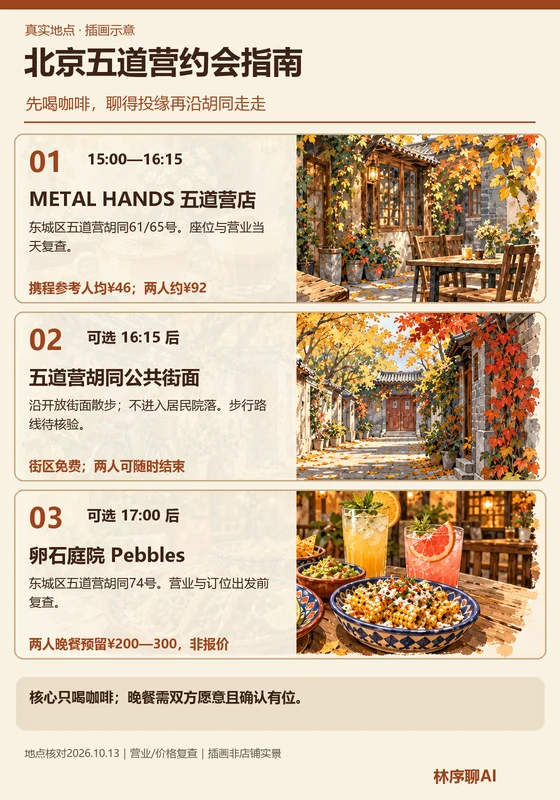
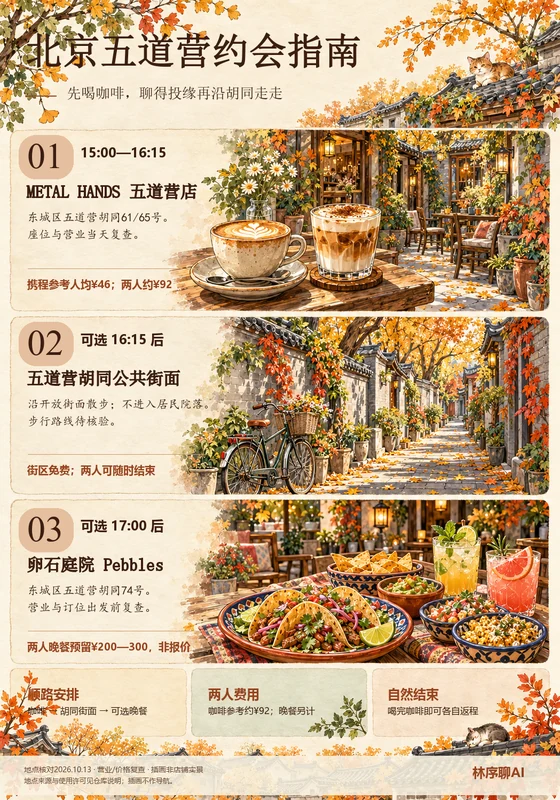
Refresh homepage preview for redesigned date posters

diff --git a/index.html b/index.html
@@ -3,7 +3,7 @@
 <header><a class="brand" href="#"><span class="brand-mark">LX<span>↗</span></span><span>林序聊AI<small>TECH · AI · BUSINESS</small></span></a><nav aria-label="主导航"><a href="#skills">开源 Skills</a><a href="#practice">实战与思考</a><a href="#start">开始使用</a></nav><a class="header-link" href="https://github.com/linxumoney" target="_blank" rel="noopener noreferrer">GitHub ↗</a></header>
 <main><section class="hero"><div class="hero-main"><div class="hero-kicker"><span></span> LIN XU / OPEN SOURCE LAB</div><h1>用技术理解商业，<br>用 <em>AI</em> 放大杠杆<span class="period">。</span></h1><p>把实践中沉淀的工具和方法开放出来。<br>找到你的场景，带走一个能用的 AI Skill。</p><div class="hero-actions"><a class="primary" href="#skills">探索开源技能 <span>↓</span></a><a class="text-link" href="https://www.youtube.com/@LinXuMoney" target="_blank" rel="noopener noreferrer">看我的实战分享 ↗</a></div><div class="hero-stats"><span><strong>19</strong>公开技能项目</span><span><strong>32</strong>SKILL.md 文件</span><span><strong>05</strong>应用场景</span></div></div><aside class="hero-aside"><div class="orbit orbit-one"></div><div class="orbit orbit-two"></div><div class="profile-card"><div class="profile-top"><span>BUILD IN PUBLIC</span><span>↗</span></div><img src="assets/avatar.jpg" alt="林序聊AI频道头像" width="160" height="160"><h2>林序 <small>Lin Xu</small></h2><p>前大厂技术专家<br>8年技术与商业实战 · All in AI</p><div class="profile-tags"><span>技术</span><b>×</b><span>商业</span><b>×</b><span>实战</span></div></div><div class="aside-note"><span>01 / 从想法到工具</span><p>让 AI 进入真实工作。</p><div class="growth-bars" aria-hidden="true"><i></i><i></i><i></i><i></i><i></i><i></i></div></div></aside></section>
 <div class="manifesto"><span>分享方法，也交付工具。</span><span>公开源码 / 场景驱动 / 持续打磨 <b>↗</b></span></div>
-<section class="featured-plan" aria-labelledby="featured-plan-title"><div class="featured-plan-copy"><span class="eyebrow">NEW PROJECT / 真实地点示例</span><h2 id="featured-plan-title">一场约会，从一条真实街道开始。</h2><p>五道营胡同、武康路、新天地：三张水彩指南海报，店铺与地址附公开来源。营业、价格与预约请在出发前复核。</p><a class="primary" href="https://github.com/linxumoney/plan-date#示例图" target="_blank" rel="noopener noreferrer">查看三张示例图 <span>↗</span></a><small>插画为场景示意，不作导航地图使用。</small></div><a class="featured-plan-image" href="https://github.com/linxumoney/plan-date#示例图" target="_blank" rel="noopener noreferrer" aria-label="查看五道营胡同约会海报与更多示例"><img src="assets/plan-date-preview.webp" alt="五道营胡同真实地点约会指南海报预览" width="560" height="800" loading="lazy"></a></section>
+<section class="featured-plan" aria-labelledby="featured-plan-title"><div class="featured-plan-copy"><span class="eyebrow">NEW PROJECT / 真实地点示例</span><h2 id="featured-plan-title">一场约会，从一条真实街道开始。</h2><p>五道营胡同、武康路、新天地：三张水彩指南海报，店铺与地址附公开来源。营业、价格与预约请在出发前复核。</p><a class="primary" href="https://github.com/linxumoney/plan-date#示例图" target="_blank" rel="noopener noreferrer">查看三张示例图 <span>↗</span></a><small>插画为场景示意，不作导航地图使用。</small></div><a class="featured-plan-image" href="https://github.com/linxumoney/plan-date#示例图" target="_blank" rel="noopener noreferrer" aria-label="查看五道营胡同约会海报与更多示例"><img src="assets/plan-date-preview.webp?v=20261013b" alt="五道营胡同真实地点约会指南海报预览" width="560" height="800" loading="lazy"></a></section>
 <section id="skills" class="catalog section"><div class="section-heading"><div><span class="eyebrow">THE TOOLKIT / 开源技能库</span><h2>选一个场景，开始动手。</h2></div><span class="section-count">19 个项目 <span>↙</span></span></div><div class="catalog-controls"><div class="filters" role="group" aria-label="按场景筛选"><button class="filter active" data-filter="全部" aria-pressed="true">全部</button><button class="filter" data-filter="内容创作" aria-pressed="false">内容创作</button><button class="filter" data-filter="营销增长" aria-pressed="false">营销增长</button><button class="filter" data-filter="产品开发" aria-pressed="false">产品开发</button><button class="filter" data-filter="研究决策" aria-pressed="false">研究决策</button><button class="filter" data-filter="个人成长" aria-pressed="false">个人成长</button></div><label class="search"><span aria-hidden="true">⌕</span><input id="search" type="search" placeholder="搜索技能、场景…" aria-label="搜索技能"></label></div><div id="result-count" class="result-count" aria-live="polite">全部 19 个技能项目</div><div class="card-grid"><article class="skill-card" data-category="内容创作" data-search="热搜雷达 hotspot-radar 抓取微博与百度热搜，结合关键词评分，找到值得写的选题。"><div class="card-top"><span class="skill-icon">雷达</span><span class="card-number">01</span></div><span class="eyebrow">内容创作</span><h3>热搜雷达</h3><p>抓取微博与百度热搜，结合关键词评分，找到值得写的选题。</p><div class="repo-name">hotspot-radar</div><div class="card-foot"><span>PolyForm Noncommercial · 1 Skill</span><button data-detail="hotspot-radar" aria-label="查看热搜雷达详情">了解 / 使用 <span>↗</span></button></div></article><article class="skill-card" data-category="内容创作" data-search="商业叙事写作 biz-fiction 把真实商业人物与事件，组织成有场景、有细节的叙事长文。"><div class="card-top"><span class="skill-icon">故事</span><span class="card-number">02</span></div><span class="eyebrow">内容创作</span><h3>商业叙事写作</h3><p>把真实商业人物与事件，组织成有场景、有细节的叙事长文。</p><div class="repo-name">biz-fiction</div><div class="card-foot"><span>CC BY-NC 4.0 · 1 Skill</span><button data-detail="biz-fiction" aria-label="查看商业叙事写作详情">了解 / 使用 <span>↗</span></button></div></article><article class="skill-card" data-category="内容创作" data-search="保留你的声音 voice-preserving-editor 减少模板感和空话，保留原文事实、立场与作者的表达节奏。"><div class="card-top"><span class="skill-icon">润色</span><span class="card-number">03</span></div><span class="eyebrow">内容创作</span><h3>保留你的声音</h3><p>减少模板感和空话，保留原文事实、立场与作者的表达节奏。</p><div class="repo-name">voice-preserving-editor</div><div class="card-foot"><span>PolyForm Noncommercial · 1 Skill</span><button data-detail="voice-preserving-editor" aria-label="查看保留你的声音详情">了解 / 使用 <span>↗</span></button></div></article><article class="skill-card" data-category="内容创作" data-search="演示叙事架构师 slide-story-architect 围绕观众和决策，整理故事线、逐页标题、证据与讲者过渡。"><div class="card-top"><span class="skill-icon">演示</span><span class="card-number">04</span></div><span class="eyebrow">内容创作</span><h3>演示叙事架构师</h3><p>围绕观众和决策，整理故事线、逐页标题、证据与讲者过渡。</p><div class="repo-name">slide-story-architect</div><div class="card-foot"><span>PolyForm Noncommercial · 1 Skill</span><button data-detail="slide-story-architect" aria-label="查看演示叙事架构师详情">了解 / 使用 <span>↗</span></button></div></article><article class="skill-card" data-category="营销增长" data-search="中国广告投放技能库 cn-ads-skills 覆盖用户洞察、广告文案、创意、转化路径和投放诊断的技能组合。"><div class="card-top"><span class="skill-icon">投放</span><span class="card-number">05</span></div><span class="eyebrow">营销增长</span><h3>中国广告投放技能库</h3><p>覆盖用户洞察、广告文案、创意、转化路径和投放诊断的技能组合。</p><div class="repo-name">cn-ads-skills</div><div class="card-foot"><span>PolyForm Noncommercial · 14 Skills</span><button data-detail="cn-ads-skills" aria-label="查看中国广告投放技能库详情">了解 / 使用 <span>↗</span></button></div></article><article class="skill-card" data-category="营销增长" data-search="Google Ads 副驾驶 google-ads-pilot 辅助搜索词评估、否定词筛选、预算优化和账户诊断。"><div class="card-top"><span class="skill-icon">广告</span><span class="card-number">06</span></div><span class="eyebrow">营销增长</span><h3>Google Ads 副驾驶</h3><p>辅助搜索词评估、否定词筛选、预算优化和账户诊断。</p><div class="repo-name">google-ads-pilot</div><div class="card-foot"><span>PolyForm Noncommercial · 1 Skill</span><button data-detail="google-ads-pilot" aria-label="查看Google Ads 副驾驶详情">了解 / 使用 <span>↗</span></button></div></article><article class="skill-card" data-category="营销增长" data-search="AI 搜索优化 ai-seo 检查内容可引用性、爬虫访问和结构化数据，梳理 GEO 改进方向。"><div class="card-top"><span class="skill-icon">搜索</span><span class="card-number">07</span></div><span class="eyebrow">营销增长</span><h3>AI 搜索优化</h3><p>检查内容可引用性、爬虫访问和结构化数据，梳理 GEO 改进方向。</p><div class="repo-name">ai-seo</div><div class="card-foot"><span>PolyForm Noncommercial · 1 Skill</span><button data-detail="ai-seo" aria-label="查看AI 搜索优化详情">了解 / 使用 <span>↗</span></button></div></article><article class="skill-card" data-category="营销增长" data-search="增长实验规划师 growth-experiment-planner 把增长想法拆成假设、指标、护栏、停止规则和实验复盘。"><div class="card-top"><span class="skill-icon">实验</span><span class="card-number">08</span></div><span class="eyebrow">营销增长</span><h3>增长实验规划师</h3><p>把增长想法拆成假设、指标、护栏、停止规则和实验复盘。</p><div class="repo-name">growth-experiment-planner</div><div class="card-foot"><span>PolyForm Noncommercial · 1 Skill</span><button data-detail="growth-experiment-planner" aria-label="查看增长实验规划师详情">了解 / 使用 <span>↗</span></button></div></article><article class="skill-card" data-category="产品开发" data-search="产品决策简报 product-brief-builder 梳理需求、MVP 范围与验收条件，让团队知道这次要决定什么。"><div class="card-top"><span class="skill-icon">产品</span><span class="card-number">09</span></div><span class="eyebrow">产品开发</span><h3>产品决策简报</h3><p>梳理需求、MVP 范围与验收条件，让团队知道这次要决定什么。</p><div class="repo-name">product-brief-builder</div><div class="card-foot"><span>PolyForm Noncommercial · 1 Skill</span><button data-detail="product-brief-builder" aria-label="查看产品决策简报详情">了解 / 使用 <span>↗</span></button></div></article><article class="skill-card" data-category="产品开发" data-search="UI / UX 评审教练 ui-critique-coach 从任务、信息层级、交互状态、响应式与可访问性检查界面。"><div class="card-top"><span class="skill-icon">界面</span><span class="card-number">10</span></div><span class="eyebrow">产品开发</span><h3>UI / UX 评审教练</h3><p>从任务、信息层级、交互状态、响应式与可访问性检查界面。</p><div class="repo-name">ui-critique-coach</div><div class="card-foot"><span>PolyForm Noncommercial · 1 Skill</span><button data-detail="ui-critique-coach" aria-label="查看UI / UX 评审教练详情">了解 / 使用 <span>↗</span></button></div></article><article class="skill-card" data-category="产品开发" data-search="云安全事件响应 cloud-incident-coach 保全证据、梳理时间线与影响范围，制定可逆遏制和恢复方案。"><div class="card-top"><span class="skill-icon">安全</span><span class="card-number">11</span></div><span class="eyebrow">产品开发</span><h3>云安全事件响应</h3><p>保全证据、梳理时间线与影响范围，制定可逆遏制和恢复方案。</p><div class="repo-name">cloud-incident-coach</div><div class="card-foot"><span>PolyForm Noncommercial · 1 Skill</span><button data-detail="cloud-incident-coach" aria-label="查看云安全事件响应详情">了解 / 使用 <span>↗</span></button></div></article><article class="skill-card" data-category="研究决策" data-search="近期趋势研究员 fresh-signal-researcher 校验最近 30 天的事件日期、独立来源、社区情绪与市场信号。"><div class="card-top"><span class="skill-icon">趋势</span><span class="card-number">12</span></div><span class="eyebrow">研究决策</span><h3>近期趋势研究员</h3><p>校验最近 30 天的事件日期、独立来源、社区情绪与市场信号。</p><div class="repo-name">fresh-signal-researcher</div><div class="card-foot"><span>PolyForm Noncommercial · 1 Skill</span><button data-detail="fresh-signal-researcher" aria-label="查看近期趋势研究员详情">了解 / 使用 <span>↗</span></button></div></article><article class="skill-card" data-category="研究决策" data-search="财报信号审阅 earnings-signal-reviewer 拆解盈利质量、现金流、业绩预期差和管理层指引。"><div class="card-top"><span class="skill-icon">财报</span><span class="card-number">13</span></div><span class="eyebrow">研究决策</span><h3>财报信号审阅</h3><p>拆解盈利质量、现金流、业绩预期差和管理层指引。</p><div class="repo-name">earnings-signal-reviewer</div><div class="card-foot"><span>PolyForm Noncommercial · 1 Skill</span><button data-detail="earnings-signal-reviewer" aria-label="查看财报信号审阅详情">了解 / 使用 <span>↗</span></button></div></article><article class="skill-card" data-category="研究决策" data-search="论文引用核验 research-citation-auditor 核验文献真实性，检查论断与证据之间是否真正对应。"><div class="card-top"><span class="skill-icon">引用</span><span class="card-number">14</span></div><span class="eyebrow">研究决策</span><h3>论文引用核验</h3><p>核验文献真实性，检查论断与证据之间是否真正对应。</p><div class="repo-name">research-citation-auditor</div><div class="card-foot"><span>PolyForm Noncommercial · 1 Skill</span><button data-detail="research-citation-auditor" aria-label="查看论文引用核验详情">了解 / 使用 <span>↗</span></button></div></article><article class="skill-card" data-category="研究决策" data-search="智者议会 wisdom-council 模拟七位思想家的思维视角，讨论商业选择与复杂问题。"><div class="card-top"><span class="skill-icon">议会</span><span class="card-number">15</span></div><span class="eyebrow">研究决策</span><h3>智者议会</h3><p>模拟七位思想家的思维视角，讨论商业选择与复杂问题。</p><div class="repo-name">wisdom-council</div><div class="card-foot"><span>CC BY-NC 4.0 · 1 Skill</span><button data-detail="wisdom-council" aria-label="查看智者议会详情">了解 / 使用 <span>↗</span></button></div></article><article class="skill-card" data-category="研究决策" data-search="AI 航海家大会知识库 ai-navigator-2026 检索大会嘉宾分享、逐字稿和问答，引用原始观点与方法。"><div class="card-top"><span class="skill-icon">知识</span><span class="card-number">16</span></div><span class="eyebrow">研究决策</span><h3>AI 航海家大会知识库</h3><p>检索大会嘉宾分享、逐字稿和问答，引用原始观点与方法。</p><div class="repo-name">ai-navigator-2026</div><div class="card-foot"><span>CC BY-NC 4.0 · 1 Skill</span><button data-detail="ai-navigator-2026" aria-label="查看AI 航海家大会知识库详情">了解 / 使用 <span>↗</span></button></div></article><article class="skill-card" data-category="个人成长" data-search="岗位匹配教练 career-fit-coach 用 JD 和真实经历建立证据矩阵，判断岗位匹配与简历修改方向。"><div class="card-top"><span class="skill-icon">职业</span><span class="card-number">17</span></div><span class="eyebrow">个人成长</span><h3>岗位匹配教练</h3><p>用 JD 和真实经历建立证据矩阵，判断岗位匹配与简历修改方向。</p><div class="repo-name">career-fit-coach</div><div class="card-foot"><span>PolyForm Noncommercial · 1 Skill</span><button data-detail="career-fit-coach" aria-label="查看岗位匹配教练详情">了解 / 使用 <span>↗</span></button></div></article><article class="skill-card" data-category="个人成长" data-search="自然聊天教练 dating-chat-coach 结合个人语言习惯和聊天上下文，整理自然、尊重的回复建议。"><div class="card-top"><span class="skill-icon">沟通</span><span class="card-number">18</span></div><span class="eyebrow">个人成长</span><h3>自然聊天教练</h3><p>结合个人语言习惯和聊天上下文，整理自然、尊重的回复建议。</p><div class="repo-name">dating-chat-coach</div><div class="card-foot"><span>PolyForm Noncommercial · 1 Skill</span><button data-detail="dating-chat-coach" aria-label="查看自然聊天教练详情">了解 / 使用 <span>↗</span></button></div></article><article class="skill-card" data-category="个人成长" data-search="约会路线规划 plan-date 规划初次见面、半日与雨天约会，并用固定模板制作水彩指南海报。"><div class="card-top"><span class="skill-icon">约会</span><span class="card-number">19</span></div><span class="eyebrow">个人成长</span><h3>约会路线规划</h3><p>规划初次见面、半日与雨天约会，并用固定模板制作水彩指南海报。</p><div class="repo-name">plan-date</div><div class="card-foot"><span>PolyForm Noncommercial · 1 Skill</span><button data-detail="plan-date" aria-label="查看约会路线规划详情">了解 / 使用 <span>↗</span></button></div></article></div><div id="empty" hidden class="empty">没有找到匹配的技能。换个关键词，或<a href="#skills" id="reset-search">查看全部</a>。</div><p class="catalog-note">目录依据 GitHub 公开仓库整理 · 数据核对：2026.10.13 · 使用与分发条件以各仓库许可证为准。</p></section>
 <section id="practice" class="practice section"><div class="section-heading"><div><span class="eyebrow">IN PRACTICE / 实战与思考</span><h2>工具之外，也聊它怎么用。</h2></div><a class="text-link" href="https://www.youtube.com/@LinXuMoney" target="_blank" rel="noopener noreferrer">前往 YouTube 频道 ↗</a></div><div class="video-grid">
 <a class="video-card" href="https://www.youtube.com/watch?v=vWxoqGWcXZI" target="_blank" rel="noopener noreferrer"><div class="video-art"><span>AGENT / 工作流</span><strong>把自己<br>装进文件夹。</strong><span class="play">▶</span></div><h3>我如何用 Claude 把自己装进文件夹</h3><p>个人知识、方法与 Agent 工作流</p></a>

diff --git a/build.py b/build.py
@@ -40,7 +40,7 @@ page='''<!doctype html><html lang="zh-CN"><head><meta charset="utf-8"><meta name
 <header><a class="brand" href="#"><span class="brand-mark">LX<span>↗</span></span><span>林序聊AI<small>TECH · AI · BUSINESS</small></span></a><nav aria-label="主导航"><a href="#skills">开源 Skills</a><a href="#practice">实战与思考</a><a href="#start">开始使用</a></nav><a class="header-link" href="https://github.com/linxumoney" target="_blank" rel="noopener noreferrer">GitHub ↗</a></header>
 <main><section class="hero"><div class="hero-main"><div class="hero-kicker"><span></span> LIN XU / OPEN SOURCE LAB</div><h1>用技术理解商业，<br>用 <em>AI</em> 放大杠杆<span class="period">。</span></h1><p>把实践中沉淀的工具和方法开放出来。<br>找到你的场景，带走一个能用的 AI Skill。</p><div class="hero-actions"><a class="primary" href="#skills">探索开源技能 <span>↓</span></a><a class="text-link" href="https://www.youtube.com/@LinXuMoney" target="_blank" rel="noopener noreferrer">看我的实战分享 ↗</a></div><div class="hero-stats"><span><strong>__PROJECTS__</strong>公开技能项目</span><span><strong>__SKILLS__</strong>SKILL.md 文件</span><span><strong>05</strong>应用场景</span></div></div><aside class="hero-aside"><div class="orbit orbit-one"></div><div class="orbit orbit-two"></div><div class="profile-card"><div class="profile-top"><span>BUILD IN PUBLIC</span><span>↗</span></div><img src="assets/avatar.jpg" alt="林序聊AI频道头像" width="160" height="160"><h2>林序 <small>Lin Xu</small></h2><p>前大厂技术专家<br>8年技术与商业实战 · All in AI</p><div class="profile-tags"><span>技术</span><b>×</b><span>商业</span><b>×</b><span>实战</span></div></div><div class="aside-note"><span>01 / 从想法到工具</span><p>让 AI 进入真实工作。</p><div class="growth-bars" aria-hidden="true"><i></i><i></i><i></i><i></i><i></i><i></i></div></div></aside></section>
 <div class="manifesto"><span>分享方法，也交付工具。</span><span>公开源码 / 场景驱动 / 持续打磨 <b>↗</b></span></div>
-<section class="featured-plan" aria-labelledby="featured-plan-title"><div class="featured-plan-copy"><span class="eyebrow">NEW PROJECT / 真实地点示例</span><h2 id="featured-plan-title">一场约会，从一条真实街道开始。</h2><p>五道营胡同、武康路、新天地：三张水彩指南海报，店铺与地址附公开来源。营业、价格与预约请在出发前复核。</p><a class="primary" href="https://github.com/linxumoney/plan-date#示例图" target="_blank" rel="noopener noreferrer">查看三张示例图 <span>↗</span></a><small>插画为场景示意，不作导航地图使用。</small></div><a class="featured-plan-image" href="https://github.com/linxumoney/plan-date#示例图" target="_blank" rel="noopener noreferrer" aria-label="查看五道营胡同约会海报与更多示例"><img src="assets/plan-date-preview.webp" alt="五道营胡同真实地点约会指南海报预览" width="560" height="800" loading="lazy"></a></section>
+<section class="featured-plan" aria-labelledby="featured-plan-title"><div class="featured-plan-copy"><span class="eyebrow">NEW PROJECT / 真实地点示例</span><h2 id="featured-plan-title">一场约会，从一条真实街道开始。</h2><p>五道营胡同、武康路、新天地：三张水彩指南海报，店铺与地址附公开来源。营业、价格与预约请在出发前复核。</p><a class="primary" href="https://github.com/linxumoney/plan-date#示例图" target="_blank" rel="noopener noreferrer">查看三张示例图 <span>↗</span></a><small>插画为场景示意，不作导航地图使用。</small></div><a class="featured-plan-image" href="https://github.com/linxumoney/plan-date#示例图" target="_blank" rel="noopener noreferrer" aria-label="查看五道营胡同约会海报与更多示例"><img src="assets/plan-date-preview.webp?v=20261013b" alt="五道营胡同真实地点约会指南海报预览" width="560" height="800" loading="lazy"></a></section>
 <section id="skills" class="catalog section"><div class="section-heading"><div><span class="eyebrow">THE TOOLKIT / 开源技能库</span><h2>选一个场景，开始动手。</h2></div><span class="section-count">__PROJECTS__ 个项目 <span>↙</span></span></div><div class="catalog-controls"><div class="filters" role="group" aria-label="按场景筛选"><button class="filter active" data-filter="全部" aria-pressed="true">全部</button>__FILTERS__</div><label class="search"><span aria-hidden="true">⌕</span><input id="search" type="search" placeholder="搜索技能、场景…" aria-label="搜索技能"></label></div><div id="result-count" class="result-count" aria-live="polite">全部 __PROJECTS__ 个技能项目</div><div class="card-grid">__CARDS__</div><div id="empty" hidden class="empty">没有找到匹配的技能。换个关键词，或<a href="#skills" id="reset-search">查看全部</a>。</div><p class="catalog-note">目录依据 GitHub 公开仓库整理 · 数据核对：2026.10.13 · 使用与分发条件以各仓库许可证为准。</p></section>
 <section id="practice" class="practice section"><div class="section-heading"><div><span class="eyebrow">IN PRACTICE / 实战与思考</span><h2>工具之外，也聊它怎么用。</h2></div><a class="text-link" href="https://www.youtube.com/@LinXuMoney" target="_blank" rel="noopener noreferrer">前往 YouTube 频道 ↗</a></div><div class="video-grid">
 <a class="video-card" href="https://www.youtube.com/watch?v=vWxoqGWcXZI" target="_blank" rel="noopener noreferrer"><div class="video-art"><span>AGENT / 工作流</span><strong>把自己<br>装进文件夹。</strong><span class="play">▶</span></div><h3>我如何用 Claude 把自己装进文件夹</h3><p>个人知识、方法与 Agent 工作流</p></a>
